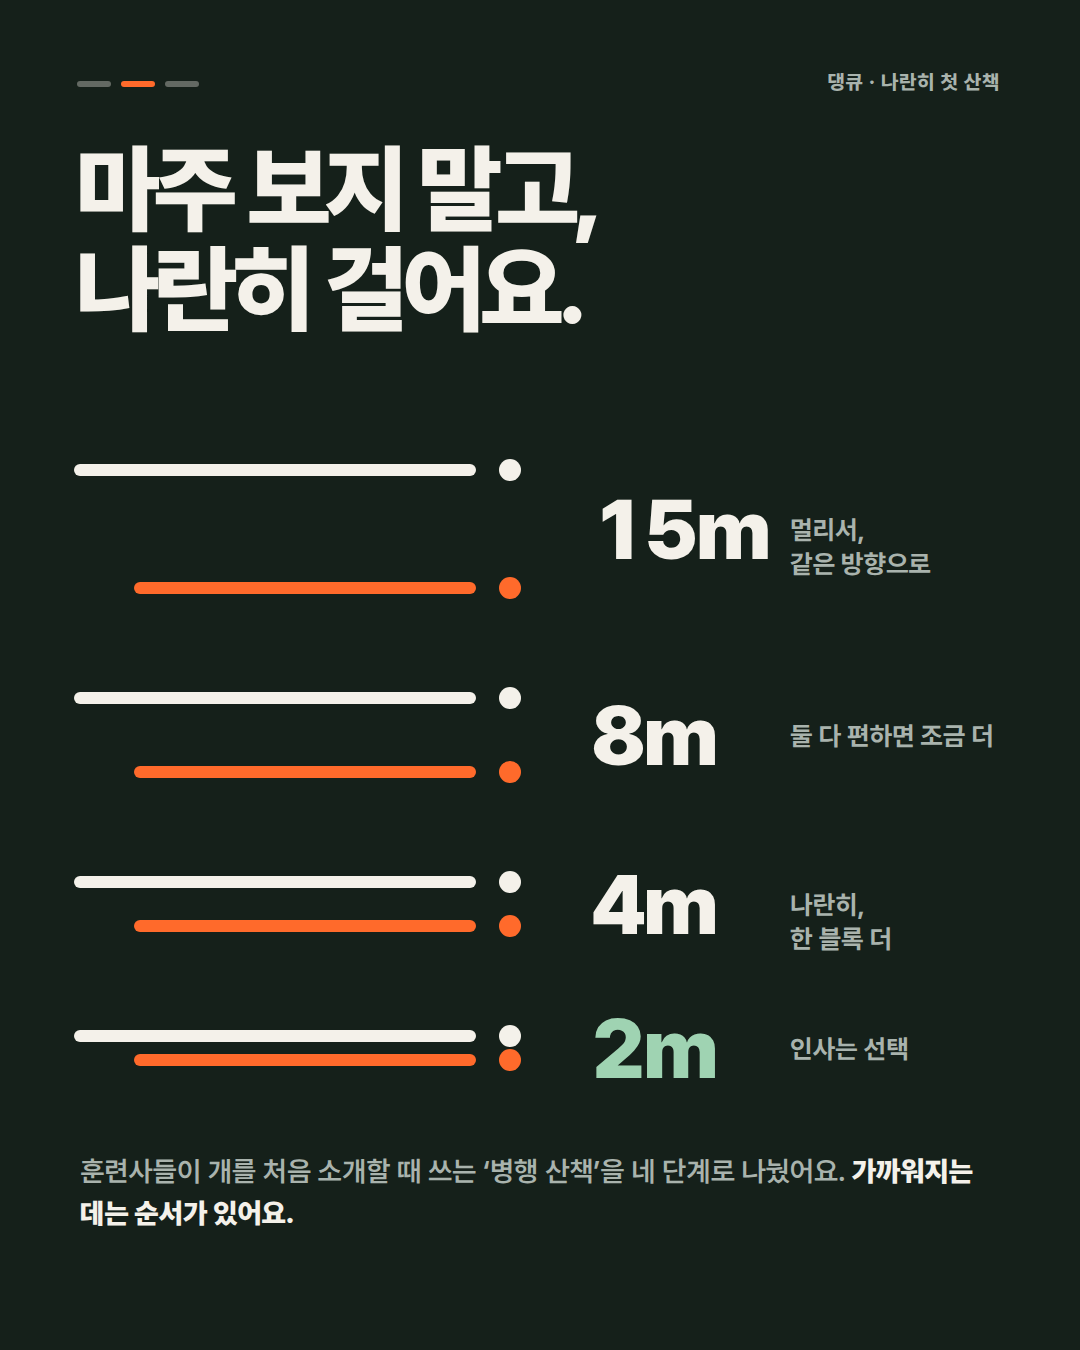
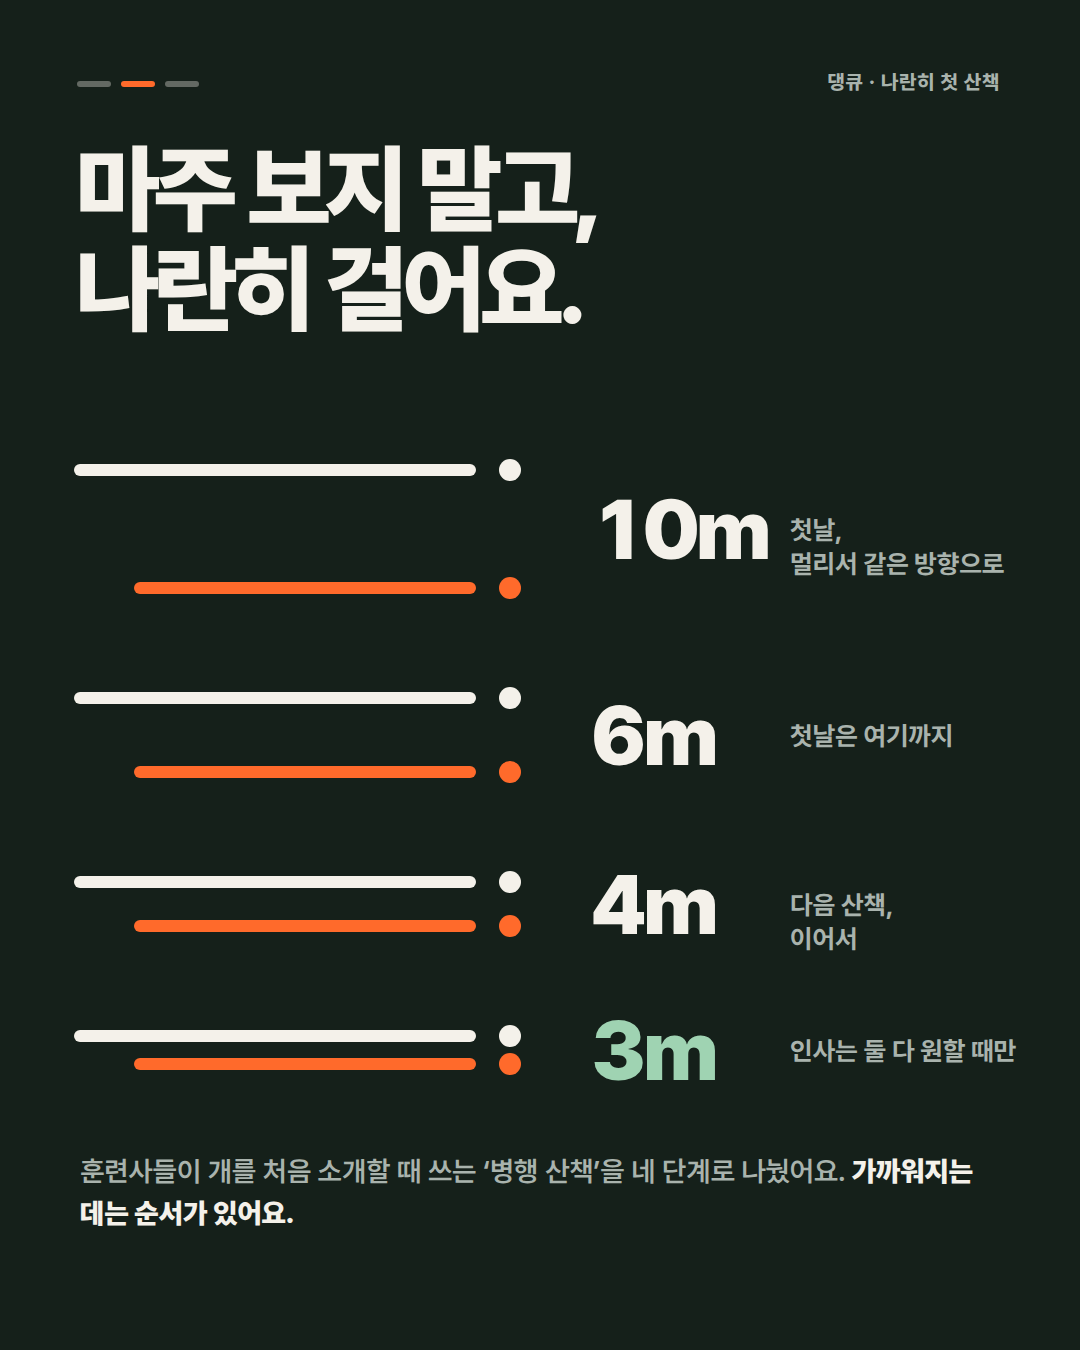
fix: align key visual, brand demo, site previews with safe 나란히 rules
Claude-Session: https://claude.ai/code/session_016pVz19AqwYdDHVn5HpEem5

diff --git a/outputs/04_brand/render/kv-1920x1080.html b/outputs/04_brand/render/kv-1920x1080.html
@@ -7,13 +7,13 @@ body{font-family:P;background:#15201A;color:#F4F1EA;word-break:keep-all;-webkit-
 svg.stage{position:absolute;left:0;top:0}
 .hd{font-weight:880;letter-spacing:-0.055em;line-height:1.04}
 .eb{font-weight:800;letter-spacing:.04em}
-</style></head><body><svg class="stage" width="1920" height="1080" viewBox="0 0 1920 1080" xmlns="http://www.w3.org/2000/svg"><line x1="100" y1="480" x2="1466.4" y2="480" stroke="#F4F1EA" stroke-width="8" stroke-linecap="round"/><line x1="1632.8" y1="480" x2="1820" y2="480" stroke="#F4F1EA" stroke-width="8" stroke-linecap="round" stroke-dasharray="2 27.2" opacity=".55"/><path d="M190 890 L610 890 C638 890 638 750 666 750 L956 750 C984 750 984 670 1012 670 L1232 670 C1260 670 1260 630 1288 630 L1437.6 630" fill="none" stroke="#FF6A2B" stroke-width="8" stroke-linecap="round" stroke-linejoin="round"/><line x1="1597.6" y1="630" x2="1820" y2="630" stroke="#FF6A2B" stroke-width="8" stroke-linecap="round" stroke-dasharray="2 27.2" opacity=".55"/><g stroke="#9FD3B2" stroke-width="2.5" stroke-linecap="round"><line x1="214" x2="214" y1="496" y2="874"/><line x1="205" x2="223" y1="496" y2="496"/><line x1="205" x2="223" y1="874" y2="874"/></g><text x="234" y="646" fill="#F4F1EA" text-anchor="start" style="font:880 200px/1 P;letter-spacing:-0.05em;font-variant-numeric:tabular-nums">15m</text><text x="190" y="937.6" fill="#A9B3AD" style="font:700 22px/1 P;letter-spacing:-0.01em">멀리서, 같은 방향으로</text><g stroke="#9FD3B2" stroke-width="2.5" stroke-linecap="round"><line x1="690" x2="690" y1="496" y2="734"/><line x1="681" x2="699" y1="496" y2="496"/><line x1="681" x2="699" y1="734" y2="734"/></g><text x="710" y="599.92" fill="#F4F1EA" text-anchor="start" style="font:880 136px/1 P;letter-spacing:-0.05em;font-variant-numeric:tabular-nums">8m</text><text x="666" y="797.6" fill="#A9B3AD" style="font:700 22px/1 P;letter-spacing:-0.01em">둘 다 편하면 조금 더</text><g stroke="#9FD3B2" stroke-width="2.5" stroke-linecap="round"><line x1="1036" x2="1036" y1="496" y2="654"/><line x1="1027" x2="1045" y1="496" y2="496"/><line x1="1027" x2="1045" y1="654" y2="654"/></g><text x="1056" y="571.12" fill="#F4F1EA" text-anchor="start" style="font:880 96px/1 P;letter-spacing:-0.05em;font-variant-numeric:tabular-nums">4m</text><text x="1012" y="717.6" fill="#A9B3AD" style="font:700 22px/1 P;letter-spacing:-0.01em">나란히, 한 블록 더</text><g stroke="#9FD3B2" stroke-width="2.5" stroke-linecap="round"><line x1="1677.6" x2="1677.6" y1="496" y2="614"/><line x1="1668.6" x2="1686.6" y1="496" y2="496"/><line x1="1668.6" x2="1686.6" y1="614" y2="614"/></g><text x="1697.6" y="580.92" fill="#9FD3B2" text-anchor="start" style="font:880 72px/1 P;letter-spacing:-0.05em;font-variant-numeric:tabular-nums">2m</text><text x="1288" y="677.6" fill="#A9B3AD" style="font:700 22px/1 P;letter-spacing:-0.01em">인사는 선택</text><g transform="translate(1540 438.4) scale(1.6)"><g transform="">
+</style></head><body><svg class="stage" width="1920" height="1080" viewBox="0 0 1920 1080" xmlns="http://www.w3.org/2000/svg"><line x1="100" y1="480" x2="1466.4" y2="480" stroke="#F4F1EA" stroke-width="8" stroke-linecap="round"/><line x1="1632.8" y1="480" x2="1820" y2="480" stroke="#F4F1EA" stroke-width="8" stroke-linecap="round" stroke-dasharray="2 27.2" opacity=".55"/><path d="M190 790 L610 790 C638 790 638 710 666 710 L956 710 C984 710 984 670 1012 670 L1232 670 C1260 670 1260 650 1288 650 L1437.6 650" fill="none" stroke="#FF6A2B" stroke-width="8" stroke-linecap="round" stroke-linejoin="round"/><line x1="1597.6" y1="650" x2="1820" y2="650" stroke="#FF6A2B" stroke-width="8" stroke-linecap="round" stroke-dasharray="2 27.2" opacity=".55"/><g stroke="#9FD3B2" stroke-width="2.5" stroke-linecap="round"><line x1="214" x2="214" y1="496" y2="774"/><line x1="205" x2="223" y1="496" y2="496"/><line x1="205" x2="223" y1="774" y2="774"/></g><text x="234" y="646" fill="#F4F1EA" text-anchor="start" style="font:880 200px/1 P;letter-spacing:-0.05em;font-variant-numeric:tabular-nums">10m</text><text x="190" y="837.6" fill="#A9B3AD" style="font:700 22px/1 P;letter-spacing:-0.01em">첫날, 멀리서 같은 방향으로</text><g stroke="#9FD3B2" stroke-width="2.5" stroke-linecap="round"><line x1="690" x2="690" y1="496" y2="694"/><line x1="681" x2="699" y1="496" y2="496"/><line x1="681" x2="699" y1="694" y2="694"/></g><text x="710" y="599.92" fill="#F4F1EA" text-anchor="start" style="font:880 136px/1 P;letter-spacing:-0.05em;font-variant-numeric:tabular-nums">6m</text><text x="666" y="757.6" fill="#A9B3AD" style="font:700 22px/1 P;letter-spacing:-0.01em">첫날은 여기까지</text><g stroke="#9FD3B2" stroke-width="2.5" stroke-linecap="round"><line x1="1036" x2="1036" y1="496" y2="654"/><line x1="1027" x2="1045" y1="496" y2="496"/><line x1="1027" x2="1045" y1="654" y2="654"/></g><text x="1056" y="571.12" fill="#F4F1EA" text-anchor="start" style="font:880 96px/1 P;letter-spacing:-0.05em;font-variant-numeric:tabular-nums">4m</text><text x="1012" y="717.6" fill="#A9B3AD" style="font:700 22px/1 P;letter-spacing:-0.01em">다음 산책, 이어서 조금 더</text><g stroke="#9FD3B2" stroke-width="2.5" stroke-linecap="round"><line x1="1677.6" x2="1677.6" y1="496" y2="634"/><line x1="1668.6" x2="1686.6" y1="496" y2="496"/><line x1="1668.6" x2="1686.6" y1="634" y2="634"/></g><text x="1697.6" y="590.92" fill="#9FD3B2" text-anchor="start" style="font:880 72px/1 P;letter-spacing:-0.05em;font-variant-numeric:tabular-nums">3m</text><text x="1288" y="697.6" fill="#A9B3AD" style="font:700 22px/1 P;letter-spacing:-0.01em">인사는 둘 다 원할 때만</text><g transform="translate(1540 438.4) scale(1.6)"><g transform="">
     <g stroke="#F4F1EA" stroke-width="6" stroke-linecap="round"><line x1="-20" y1="6" x2="-22" y2="26" transform="rotate(10 -20 6)"/><line x1="-10" y1="6" x2="-10" y2="26" transform="rotate(-10 -10 6)"/><line x1="10" y1="6" x2="10" y2="26" transform="rotate(-10 10 6)"/><line x1="20" y1="6" x2="22" y2="26" transform="rotate(10 20 6)"/></g>
     <path d="M-30 -6 C -40 -9, -46 -13, -52 -12" stroke="#F4F1EA" stroke-width="6" stroke-linecap="round" fill="none"/>
     <rect x="-32" y="-14" width="62" height="26" rx="13" fill="#F4F1EA"/>
     <g transform=""><circle cx="30" cy="-18" r="14" fill="#F4F1EA"/><rect x="36" y="-21" width="14" height="10" rx="5" fill="#F4F1EA"/>
       <circle cx="49" cy="-17" r="2.6" fill="#15201A"/><circle cx="34" cy="-23" r="2.4" fill="#15201A"/>
-      <path d="M22 -29 C 16 -27, 13 -18, 16 -9 C 21 -13, 25 -21, 27 -29 Z" fill="#F4F1EA" stroke="#15201A" stroke-width="2" stroke-linejoin="round"/></g></g></g><g transform="translate(1508 588.4) scale(1.6)"><g transform="">
+      <path d="M22 -29 C 16 -27, 13 -18, 16 -9 C 21 -13, 25 -21, 27 -29 Z" fill="#F4F1EA" stroke="#15201A" stroke-width="2" stroke-linejoin="round"/></g></g></g><g transform="translate(1508 608.4) scale(1.6)"><g transform="">
     <g stroke="#FF6A2B" stroke-width="6" stroke-linecap="round"><line x1="-20" y1="6" x2="-22" y2="26" transform="rotate(-10 -20 6)"/><line x1="-10" y1="6" x2="-10" y2="26" transform="rotate(10 -10 6)"/><line x1="10" y1="6" x2="10" y2="26" transform="rotate(10 10 6)"/><line x1="20" y1="6" x2="22" y2="26" transform="rotate(-10 20 6)"/></g>
     <path d="M-30 -6 C -40 -9, -46 -13, -52 -12" stroke="#FF6A2B" stroke-width="6" stroke-linecap="round" fill="none"/>
     <rect x="-32" y="-14" width="62" height="26" rx="13" fill="#FF6A2B"/>

diff --git a/outputs/04_brand/render/insta-2-idea.html b/outputs/04_brand/render/insta-2-idea.html
@@ -10,20 +10,20 @@ svg.stage{position:absolute;left:0;top:0}
 </style></head><body><svg class="stage" width="1080" height="1350" viewBox="0 0 1080 1350" xmlns="http://www.w3.org/2000/svg"><line x1="80" y1="84" x2="108" y2="84" stroke="#F4F1EA" stroke-width="6" stroke-linecap="round" opacity="0.35"/><line x1="124" y1="84" x2="152" y2="84" stroke="#FF6A2B" stroke-width="6" stroke-linecap="round" opacity="1"/><line x1="168" y1="84" x2="196" y2="84" stroke="#F4F1EA" stroke-width="6" stroke-linecap="round" opacity="0.35"/><line x1="80" y1="470" x2="470" y2="470" stroke="#F4F1EA" stroke-width="12" stroke-linecap="round"/>
       <line x1="140" y1="588" x2="470" y2="588" stroke="#FF6A2B" stroke-width="12" stroke-linecap="round"/>
       <circle cx="510" cy="470" r="11" fill="#F4F1EA"/><circle cx="510" cy="588" r="11" fill="#FF6A2B"/>
-      <text x="590" y="559" fill="#F4F1EA" text-anchor="start" style="font:880 84px/1 P;letter-spacing:-0.05em;font-variant-numeric:tabular-nums">15m</text>
-      <text x="790" y="539" fill="#A9B3AD" style="font:700 26px/1 P">멀리서,</text><text x="790" y="573" fill="#A9B3AD" style="font:700 26px/1 P">같은 방향으로</text><line x1="80" y1="698" x2="470" y2="698" stroke="#F4F1EA" stroke-width="12" stroke-linecap="round"/>
+      <text x="590" y="559" fill="#F4F1EA" text-anchor="start" style="font:880 84px/1 P;letter-spacing:-0.05em;font-variant-numeric:tabular-nums">10m</text>
+      <text x="790" y="539" fill="#A9B3AD" style="font:700 26px/1 P">첫날,</text><text x="790" y="573" fill="#A9B3AD" style="font:700 26px/1 P">멀리서 같은 방향으로</text><line x1="80" y1="698" x2="470" y2="698" stroke="#F4F1EA" stroke-width="12" stroke-linecap="round"/>
       <line x1="140" y1="772" x2="470" y2="772" stroke="#FF6A2B" stroke-width="12" stroke-linecap="round"/>
       <circle cx="510" cy="698" r="11" fill="#F4F1EA"/><circle cx="510" cy="772" r="11" fill="#FF6A2B"/>
-      <text x="590" y="765" fill="#F4F1EA" text-anchor="start" style="font:880 84px/1 P;letter-spacing:-0.05em;font-variant-numeric:tabular-nums">8m</text>
-      <text x="790" y="745" fill="#A9B3AD" style="font:700 26px/1 P">둘 다 편하면 조금 더</text><line x1="80" y1="882" x2="470" y2="882" stroke="#F4F1EA" stroke-width="12" stroke-linecap="round"/>
+      <text x="590" y="765" fill="#F4F1EA" text-anchor="start" style="font:880 84px/1 P;letter-spacing:-0.05em;font-variant-numeric:tabular-nums">6m</text>
+      <text x="790" y="745" fill="#A9B3AD" style="font:700 26px/1 P">첫날은 여기까지</text><line x1="80" y1="882" x2="470" y2="882" stroke="#F4F1EA" stroke-width="12" stroke-linecap="round"/>
       <line x1="140" y1="926" x2="470" y2="926" stroke="#FF6A2B" stroke-width="12" stroke-linecap="round"/>
       <circle cx="510" cy="882" r="11" fill="#F4F1EA"/><circle cx="510" cy="926" r="11" fill="#FF6A2B"/>
       <text x="590" y="934" fill="#F4F1EA" text-anchor="start" style="font:880 84px/1 P;letter-spacing:-0.05em;font-variant-numeric:tabular-nums">4m</text>
-      <text x="790" y="914" fill="#A9B3AD" style="font:700 26px/1 P">나란히,</text><text x="790" y="948" fill="#A9B3AD" style="font:700 26px/1 P">한 블록 더</text><line x1="80" y1="1036" x2="470" y2="1036" stroke="#F4F1EA" stroke-width="12" stroke-linecap="round"/>
-      <line x1="140" y1="1060" x2="470" y2="1060" stroke="#FF6A2B" stroke-width="12" stroke-linecap="round"/>
-      <circle cx="510" cy="1036" r="11" fill="#F4F1EA"/><circle cx="510" cy="1060" r="11" fill="#FF6A2B"/>
-      <text x="590" y="1078" fill="#9FD3B2" text-anchor="start" style="font:880 84px/1 P;letter-spacing:-0.05em;font-variant-numeric:tabular-nums">2m</text>
-      <text x="790" y="1058" fill="#A9B3AD" style="font:700 26px/1 P">인사는 선택</text></svg>
+      <text x="790" y="914" fill="#A9B3AD" style="font:700 26px/1 P">다음 산책,</text><text x="790" y="948" fill="#A9B3AD" style="font:700 26px/1 P">이어서</text><line x1="80" y1="1036" x2="470" y2="1036" stroke="#F4F1EA" stroke-width="12" stroke-linecap="round"/>
+      <line x1="140" y1="1064" x2="470" y2="1064" stroke="#FF6A2B" stroke-width="12" stroke-linecap="round"/>
+      <circle cx="510" cy="1036" r="11" fill="#F4F1EA"/><circle cx="510" cy="1064" r="11" fill="#FF6A2B"/>
+      <text x="590" y="1080" fill="#9FD3B2" text-anchor="start" style="font:880 84px/1 P;letter-spacing:-0.05em;font-variant-numeric:tabular-nums">3m</text>
+      <text x="790" y="1060" fill="#A9B3AD" style="font:700 26px/1 P">인사는 둘 다 원할 때만</text></svg>
     <p class="a eb" style="right:80px;top:70px;font-size:20px;color:#A9B3AD">댕큐 · 나란히 첫 산책</p>
     <h1 class="a hd" style="left:76px;top:140px;font-size:96px">마주 보지 말고,<br>나란히 걸어요.</h1>
     <p class="a" style="left:80px;top:1150px;width:920px;font-size:28px;font-weight:600;line-height:1.5;color:#A9B3AD">훈련사들이 개를 처음 소개할 때 쓰는 ‘병행 산책’을 네 단계로 나눴어요. <b style="color:#F4F1EA">가까워지는 데는 순서가 있어요.</b></p></body></html>

diff --git a/app/src/site/Home.tsx b/app/src/site/Home.tsx
@@ -113,8 +113,8 @@ export function Home() {
                 <Link to="/app" className="btn btn-ink">체험 모드로 써 보기</Link>
               </div>
               <div className="how__visual how__visual--bond" aria-hidden="true">
-                {[15, 8, 4].map((d, i) => (
-                  <div key={d} className="bondbar"><span className="bondbar__date">{['5월 3일', '5월 10일', '5월 17일'][i]}</span><span className="bondbar__line" style={{ width: `${(d / 20) * 100}%` }} /><span className="num">{d}m</span></div>
+                {[6, 4, 3].map((d, i) => (
+                  <div key={d} className="bondbar"><span className="bondbar__date">{['1회 · 첫날', '2회', '3회'][i]}</span><span className="bondbar__line" style={{ width: `${(d / 20) * 100}%` }} /><span className="num">{d}m</span></div>
                 ))}
               </div>
             </article>

diff --git a/app/src/site/CaseStudy.tsx b/app/src/site/CaseStudy.tsx
@@ -104,7 +104,7 @@ export default function CaseStudy() {
               <p className="case__src">참고: Sniffspot·Journey Dog Training·MLAR의 병행 산책 안내(S79–S81), AKC CGC 테스트 항목(S74). 수치 기준은 이 자료를 참고한 설계 가정이에요. 행동 전문가 검토 전이에요.</p>
             </div>
             <div className="case__lanes" aria-hidden="true">
-              {[15, 8, 4].map((d) => <Lanes key={d} distance={d} me={{ name: 'A', state: 'calm' }} them={{ name: 'B', state: 'calm' }} theme="paper" height={200} />)}
+              {[10, 8, 6].map((d) => <Lanes key={d} distance={d} me={{ name: 'A', state: 'calm' }} them={{ name: 'B', state: 'calm' }} theme="paper" height={200} />)}
             </div>
           </div>
         </section>

diff --git a/app/src/site/Brand.tsx b/app/src/site/Brand.tsx
@@ -561,7 +561,7 @@ function IllustSection() {
 }
 
 /* ------------------------------------------------------------------ 10 */
-const STEPS = [15, 8, 4, 2]
+const STEPS = [10, 8, 6] // same as the product rule for 뽀리 8m + 두부 6m, first walk (lib/demo planFor)
 
 function Curve({ c, label }: { c: [number, number, number, number]; label: string }) {
   const [x1, y1, x2, y2] = c
